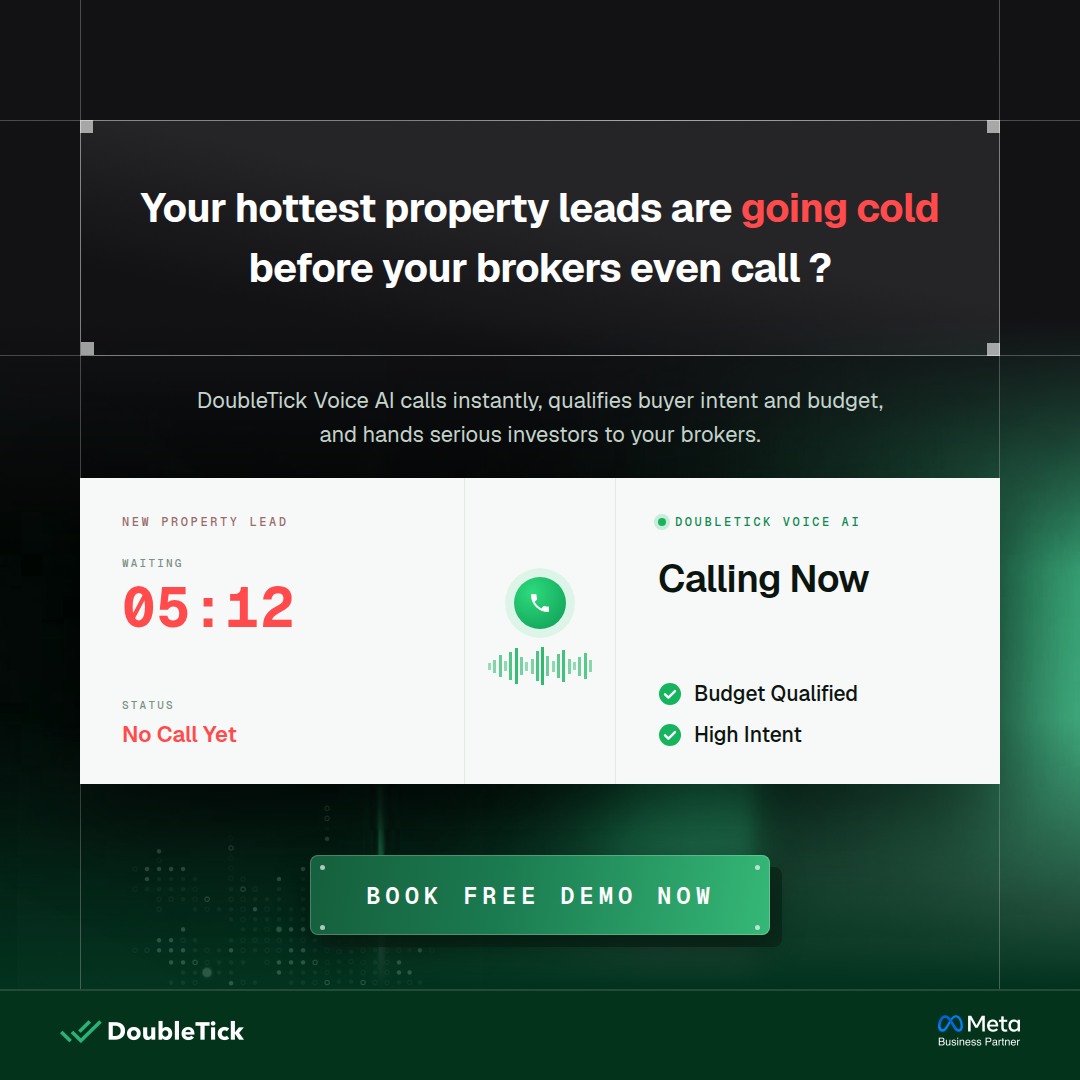
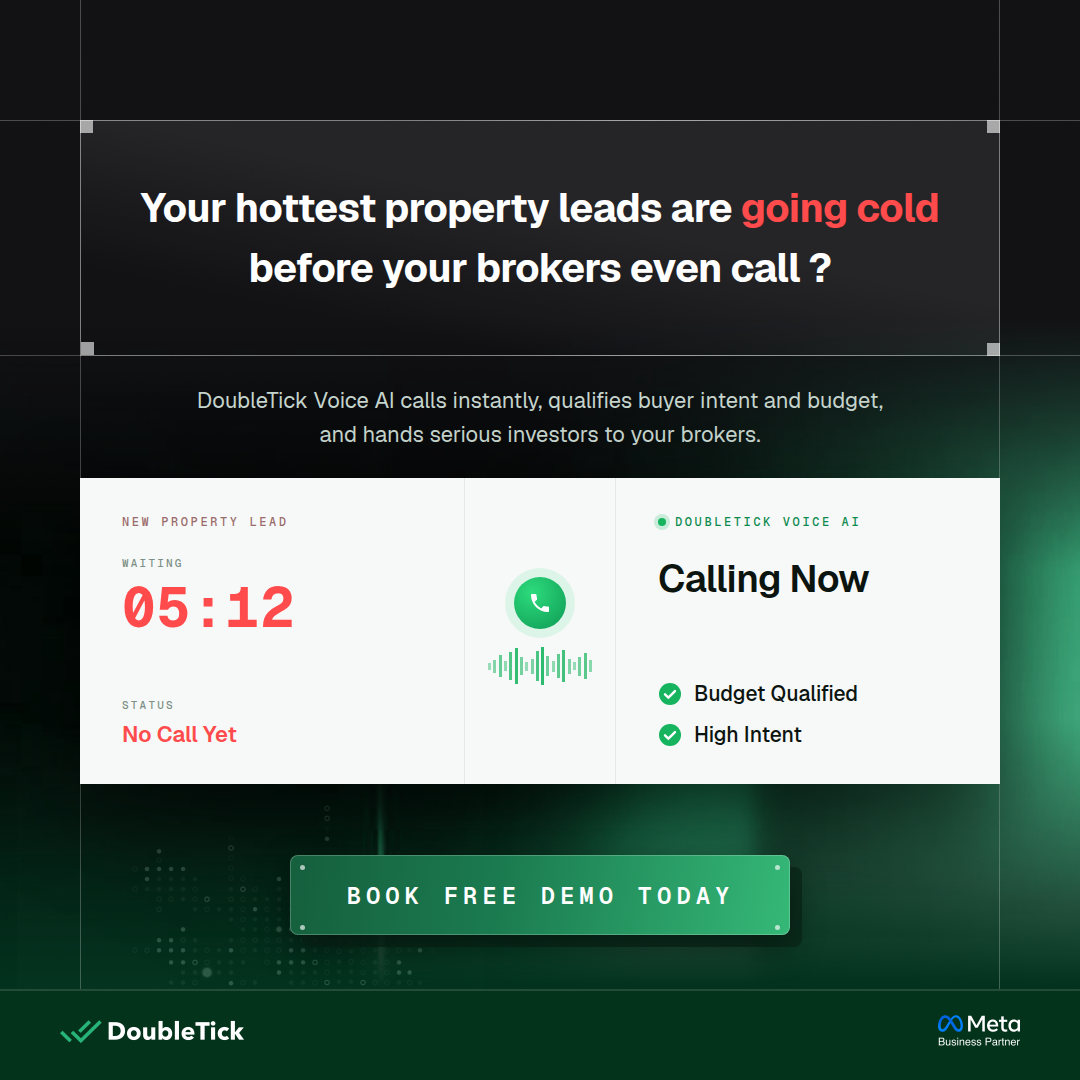
copy: change CTA to "Book Free Demo Today"
Pill widened 460 -> 500 to keep even margins around the longer word,
still centred on 540.

Claude-Session: https://claude.ai/code/session_018HdwsZw2cb2BqPFsQ5TjX1

Changed region(s): [[0.2444, 0.7944, 0.4583, 0.8861], [0.4889, 0.825, 0.6722, 0.8556], [0.7028, 0.7944, 0.7333, 0.8861]]

diff --git a/creatives/lead-qualification-simple.html b/creatives/lead-qualification-simple.html
@@ -78,10 +78,10 @@
   .wave span{width:3px;background:#16B45F;display:block}
 
   /* ---------- CTA ---------- */
-  .cta-shadow{position:absolute;left:322px;top:867px;width:460px;height:80px;
+  .cta-shadow{position:absolute;left:302px;top:867px;width:500px;height:80px;
               border-radius:8px;background:rgba(10,40,26,.75)}
   .cta{
-    position:absolute;left:310px;top:855px;width:460px;height:80px;border-radius:8px;
+    position:absolute;left:290px;top:855px;width:500px;height:80px;border-radius:8px;
     background:linear-gradient(100deg,#155f3d 0%,#1b7b50 42%,#35b877 100%);
     box-shadow:inset 0 0 0 1px rgba(255,255,255,.22), 0 12px 34px rgba(0,0,0,.45);
     display:flex;align-items:center;justify-content:center;
@@ -89,8 +89,8 @@
   }
   .cta span{padding-left:1px}
   .dot{position:absolute;width:5px;height:5px;border-radius:50%;background:rgba(255,255,255,.65)}
-  .dot.tl{left:320px;top:865px}.dot.tr{left:755px;top:865px}
-  .dot.bl{left:320px;top:925px}.dot.br{left:755px;top:925px}
+  .dot.tl{left:300px;top:865px}.dot.tr{left:775px;top:865px}
+  .dot.bl{left:300px;top:925px}.dot.br{left:775px;top:925px}
 </style>
 </head>
 <body>
@@ -145,7 +145,7 @@
   </div>
 
   <div class="cta-shadow"></div>
-  <div class="cta"><span>BOOK FREE DEMO NOW</span></div>
+  <div class="cta"><span>BOOK FREE DEMO TODAY</span></div>
   <div class="dot tl"></div><div class="dot tr"></div>
   <div class="dot bl"></div><div class="dot br"></div>
 
